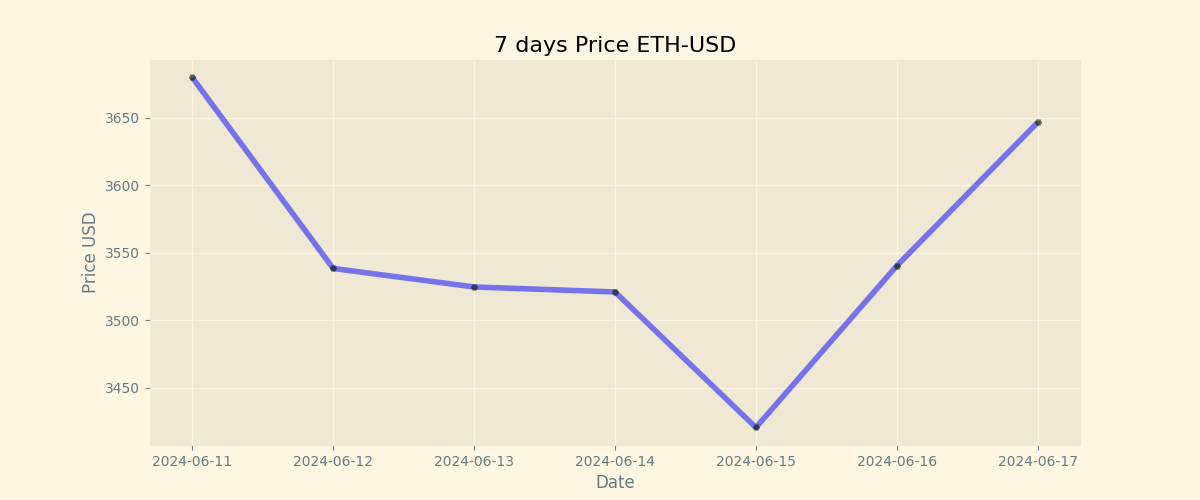
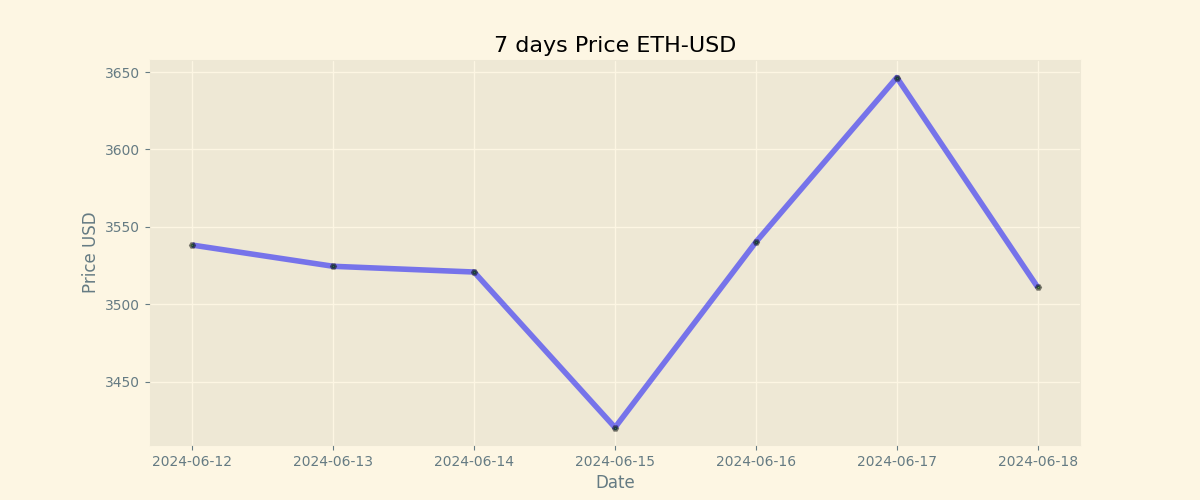
Duty Updates 2024-06-18

diff --git a/README.md b/README.md
@@ -9,8 +9,8 @@
 
 | Currency | Price           |
 | -------- | --------------- |
-| **BTC**  | **$ 66346.02** |
-| **ETH**  | **$ 3646.5** |
+| **BTC**  | **$ 65820.0** |
+| **ETH**  | **$ 3511.0** |
 
 ## BTC chart
 
